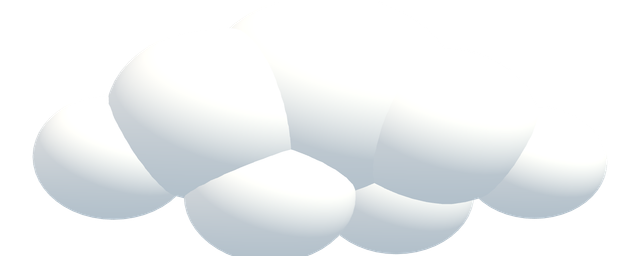
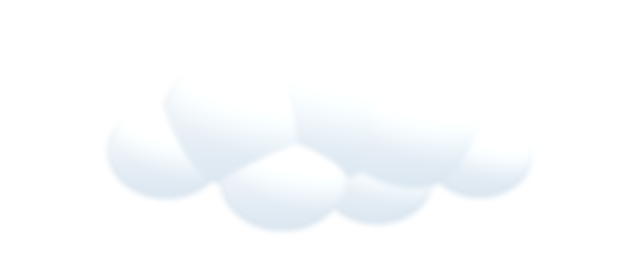
fix(auth): 구름이 위아래로 잘리던 것을 고치고 덩어리 경계를 눅인다
- 굽는 카메라가 가로만 맞춰 세로가 잘렸다(1600x640 틀에 구름 높이가 넘쳤다). 가로·세로를 모두 담는다.
- 명암 폭이 커서 구체 하나하나가 드러났다. 반구광을 키우고 직사광을 낮춘 뒤 살짝 흐리게 줄인다 —
  발광으로 지우면 흰 판이 되므로 아래쪽 하늘빛 그늘은 남긴다.

Changed region(s): [[0.0312, 0.2812, 0.9688, 1.0]]

diff --git a/src/game/three/sky-clouds.ts b/src/game/three/sky-clouds.ts
@@ -44,17 +44,14 @@ export function cloudPuffs(variant: 0 | 1 | 2): CloudPuff[] {
 /** 구름 하나. 위는 햇빛을 받아 희고 아래는 살짝 가라앉는다(하늘빛 반사). */
 export function buildCloud(variant: 0 | 1 | 2): T.Group {
   const group = new T.Group();
-  const material = new T.MeshStandardMaterial({
-    color: "#ffffff",
-    roughness: 1,
-    metalness: 0,
-    flatShading: false,
-  });
+  // 덩어리 경계가 도드라지지 않게 명암 폭을 좁게 둔다 — 대비가 크면 "공을 붙여 놓은 것" 처럼 보이고,
+  // 아예 없애면(발광) 구름이 흰 판이 된다. 아래쪽만 하늘빛으로 살짝 가라앉힌다.
+  const material = new T.MeshStandardMaterial({ color: "#fdfefe", roughness: 1, metalness: 0 });
   for (const puff of cloudPuffs(variant)) {
     const mesh = new T.Mesh(new T.SphereGeometry(puff.r, 32, 24), material);
     mesh.position.set(puff.x, puff.y, puff.z);
     // 뭉게구름은 위아래로 눌려 있다 — 완전한 구는 솜사탕처럼 보인다.
-    mesh.scale.set(1, 0.78, 0.92);
+    mesh.scale.set(1, 0.82, 0.94);
     group.add(mesh);
   }
   return group;
@@ -62,8 +59,8 @@ export function buildCloud(variant: 0 | 1 | 2): T.Group {
 
 /** 구름 전용 조명 — 위에서 흰빛, 아래에서 하늘빛. 본사 조명과 섞지 않는다. */
 export function addCloudLights(scene: T.Scene) {
-  scene.add(new T.HemisphereLight("#ffffff", "#c8d8e4", 2.4));
-  const sun = new T.DirectionalLight("#fff6e0", 1.9);
+  scene.add(new T.HemisphereLight("#ffffff", "#dce7f1", 3.1));
+  const sun = new T.DirectionalLight("#fff6e0", 0.55);
   sun.position.set(2.5, 4, 3);
   scene.add(sun);
   return sun;

diff --git a/scripts/sky/entry.ts b/scripts/sky/entry.ts
@@ -17,8 +17,12 @@ export function renderCloud(variant: 0 | 1 | 2, width: number, height: number): 
   scene.add(cloud);
   const box = new T.Box3().setFromObject(cloud);
   const center = box.getCenter(new T.Vector3());
-  const halfWidth = (box.max.x - box.min.x) / 2 + 0.25;
-  const halfHeight = halfWidth * (height / width);
+  // 가로·세로를 모두 담는다 — 가로만 맞추면 위아래가 잘린다(2026-09-20 실측).
+  const aspect = width / height;
+  let halfWidth = (box.max.x - box.min.x) / 2 + 0.25;
+  let halfHeight = (box.max.y - box.min.y) / 2 + 0.25;
+  if (halfWidth / halfHeight < aspect) halfWidth = halfHeight * aspect;
+  else halfHeight = halfWidth / aspect;
   const camera = new T.OrthographicCamera(-halfWidth, halfWidth, halfHeight, -halfHeight, 0.1, 40);
   camera.position.set(center.x, center.y, center.z + 12);
   camera.lookAt(center);

diff --git a/scripts/sky/render-clouds.ts b/scripts/sky/render-clouds.ts
@@ -39,7 +39,9 @@ async function main() {
           [variant, RENDER.width, RENDER.height] as const,
         );
         const file = `public/assets/brand/cloud-${variant + 1}.png`;
+        // 살짝 흐리게 줄인다 — 구체 경계가 남으면 도형을 붙인 것처럼 보인다.
         await sharp(Buffer.from(dataUrl.split(",")[1], "base64"))
+          .blur(3)
           .resize(OUT.width, OUT.height, { fit: "inside" })
           .png()
           .toFile(path.join(ROOT, file));
